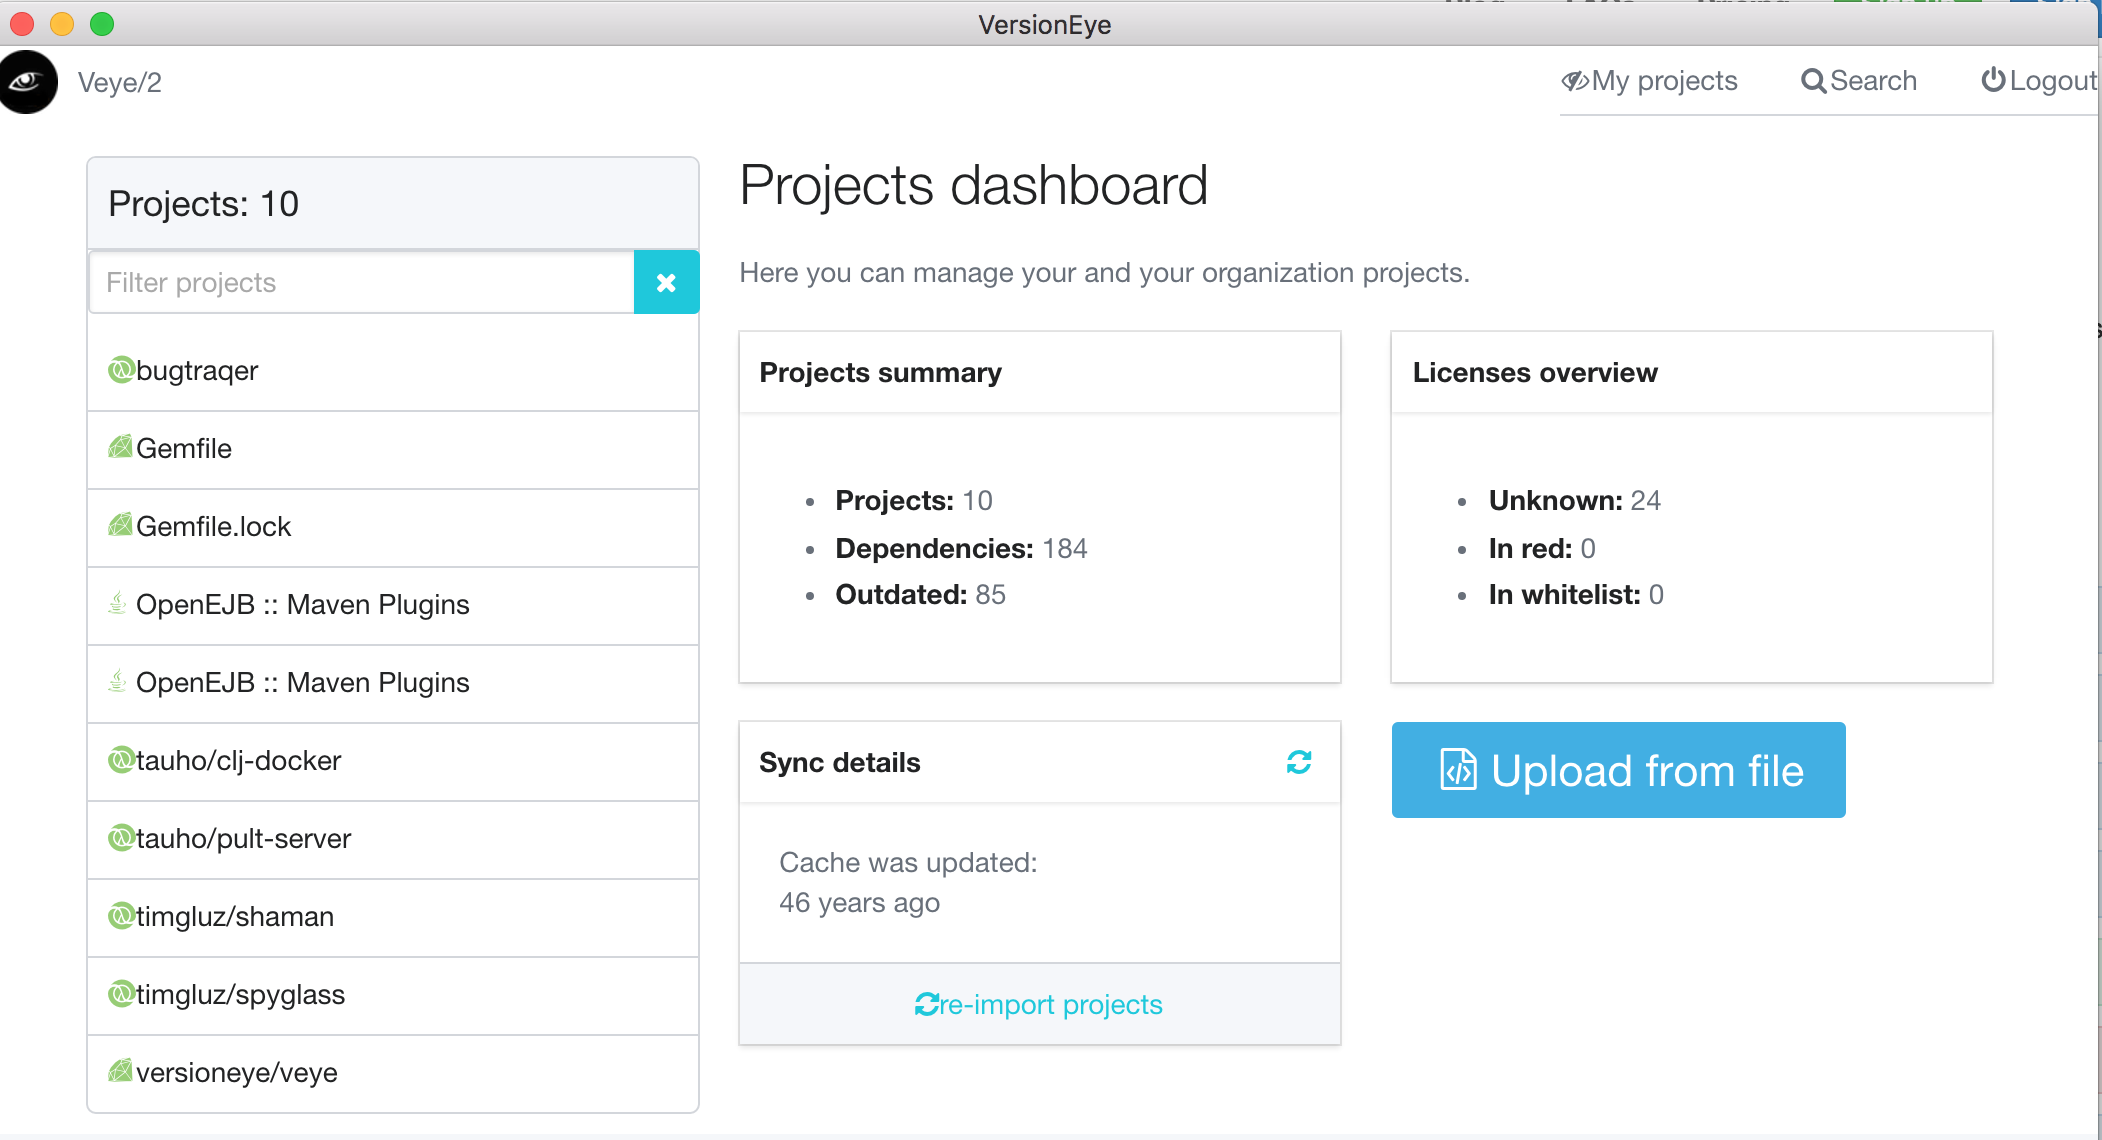
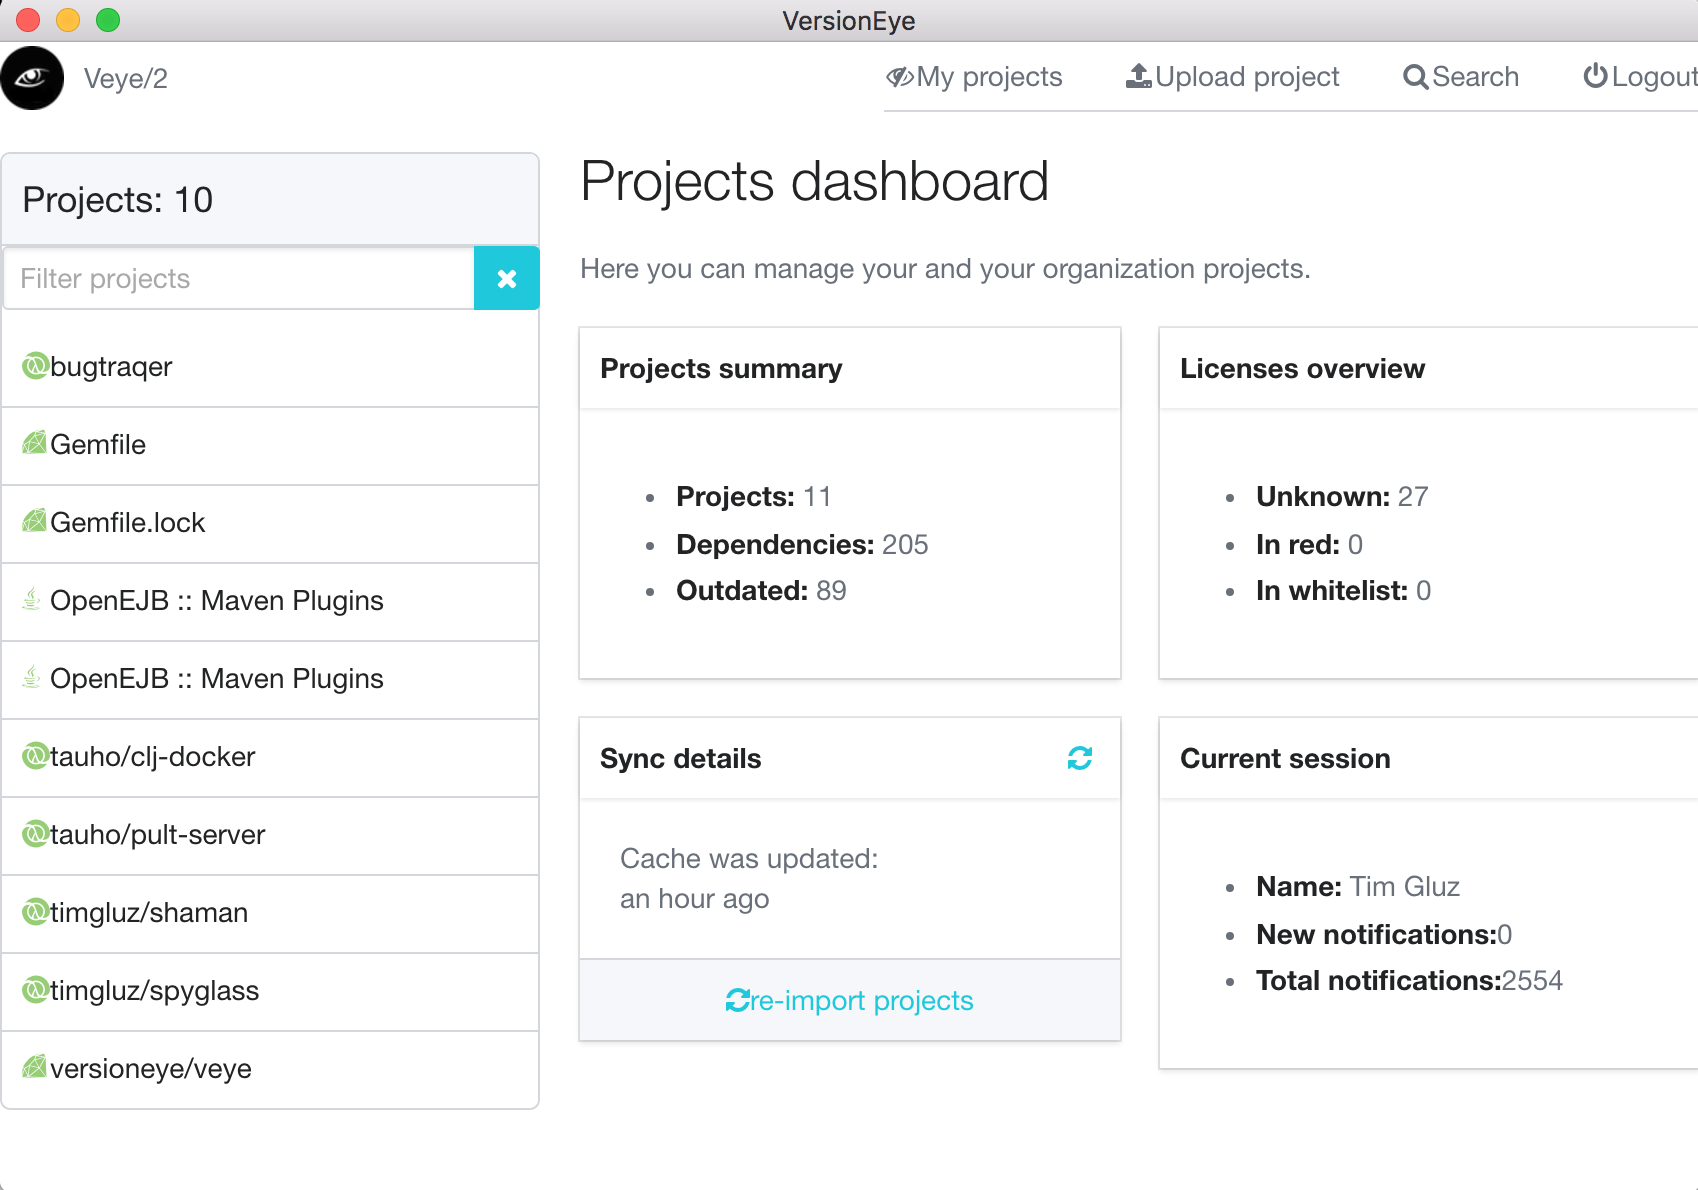
updated changelog; add newest screenshot;

diff --git a/changelog.md b/changelog.md
@@ -2,8 +2,12 @@
 
 ## for next release
 
-* add project page
-* add login page
-* add project caching
-* add project filtering
-* 
+* add project page;
+* add login page;
+* add project caching;
+* add project filtering;
+* add proper authorization with checking does a api-key works;
+* add session-tile to the home page;
+* add project creation by file upload;
+* add functionality to the navbar buttons;
+* add re-sync button to fetch latest data from the API;
